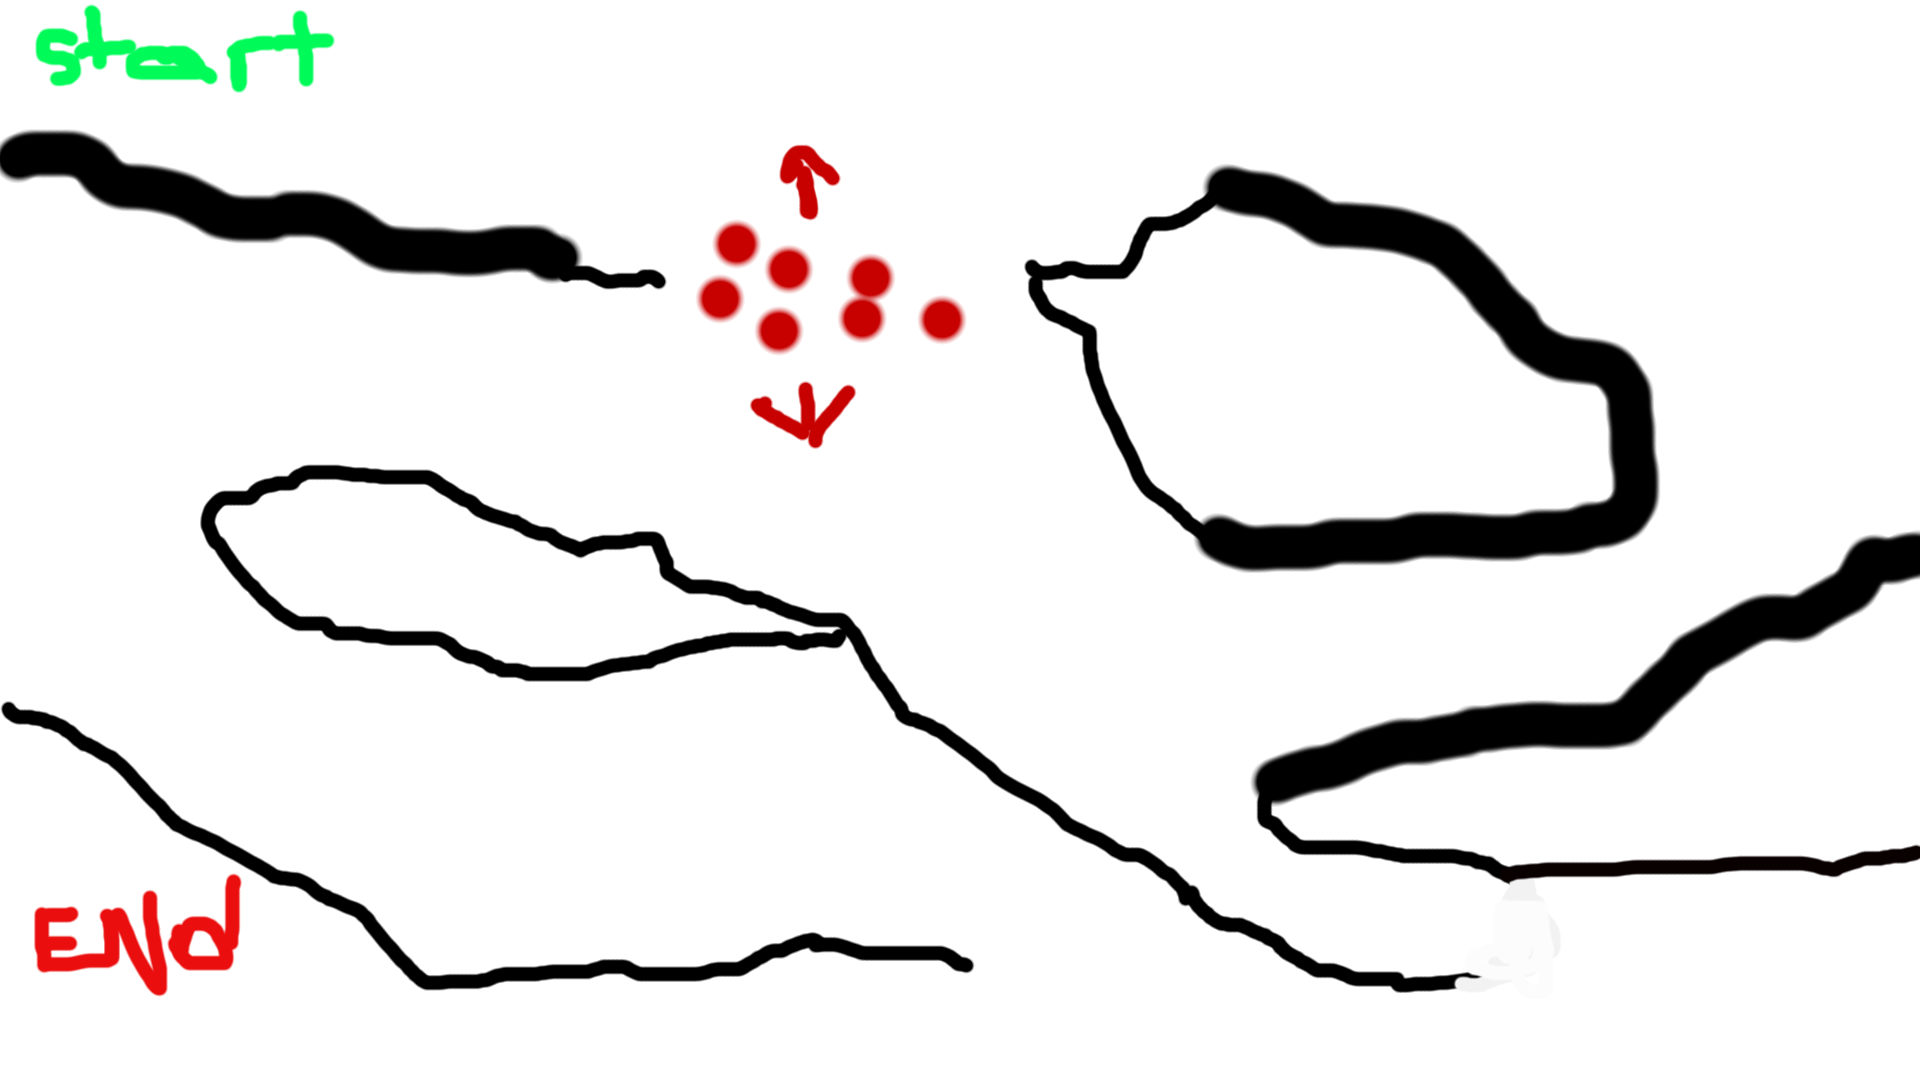
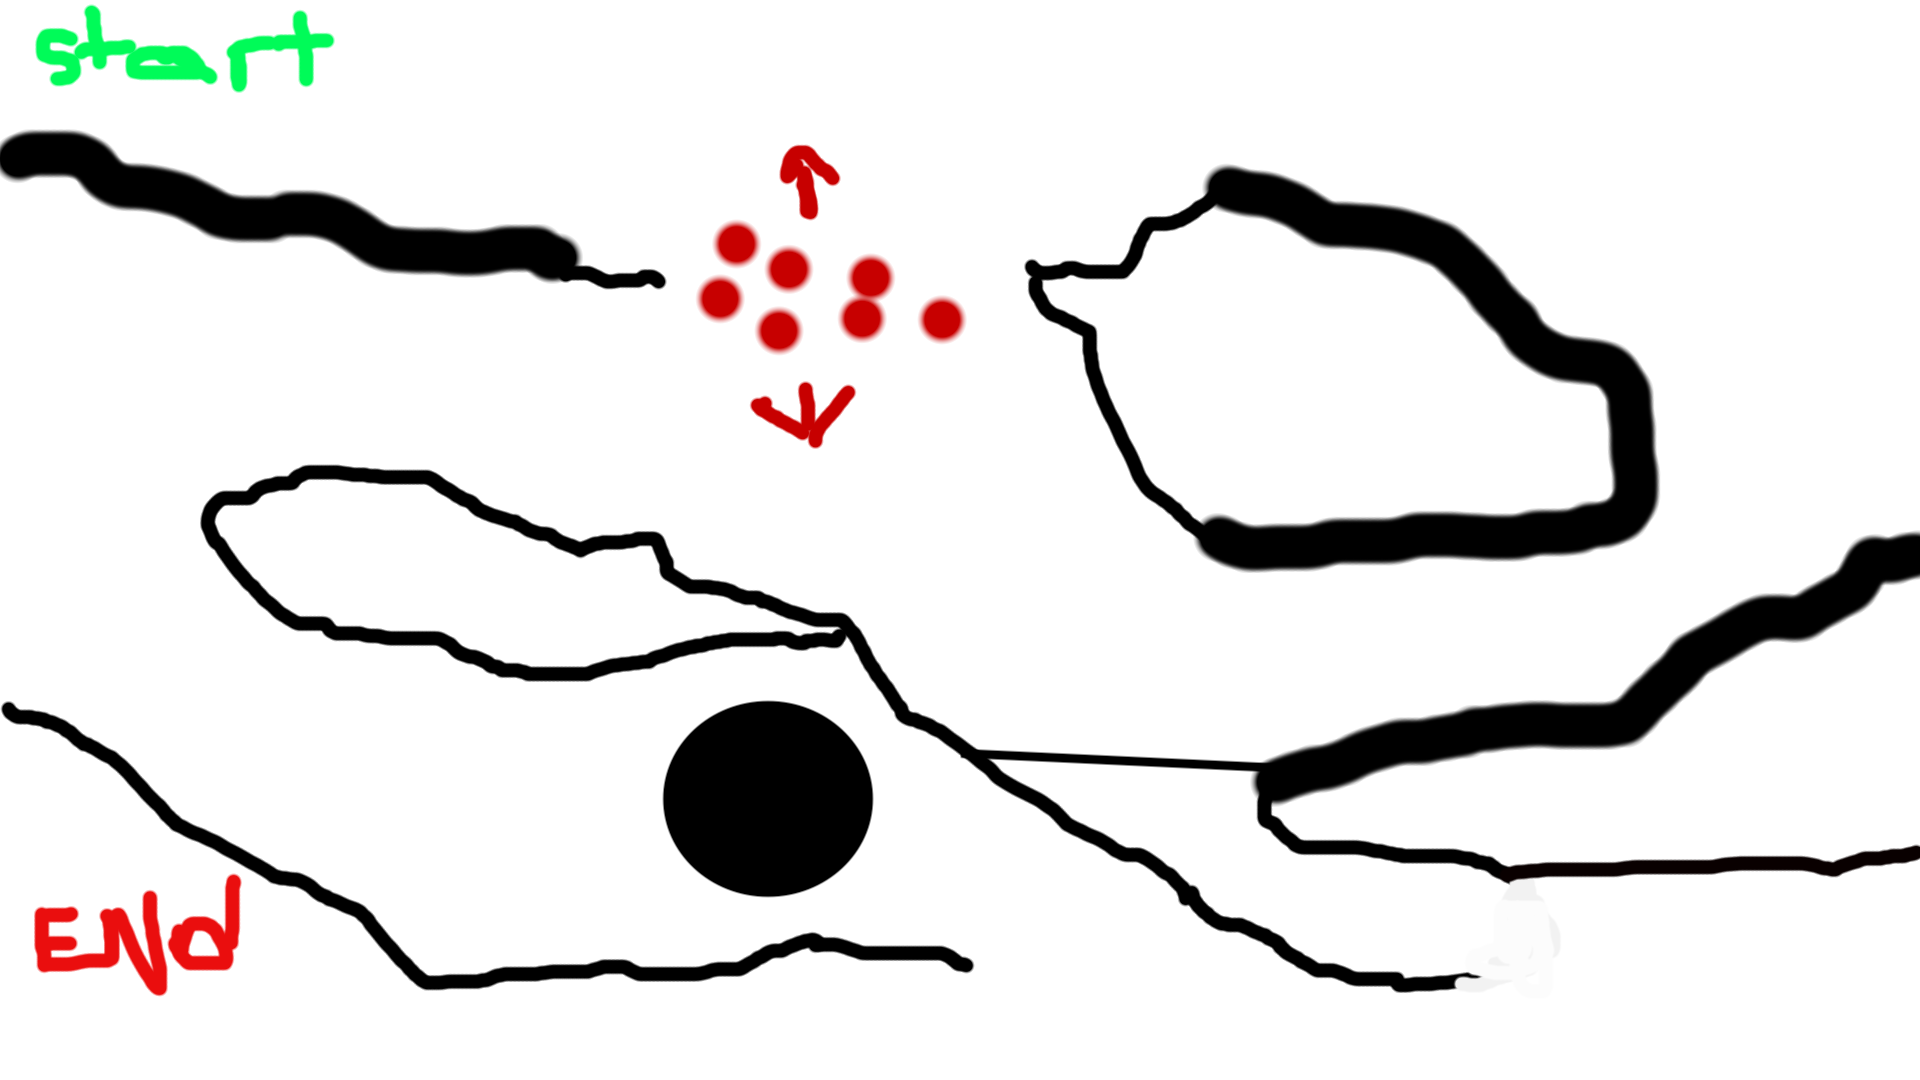
added clocks

Changed region(s): [[0.3438, 0.6417, 0.4688, 0.8556], [0.5, 0.6722, 0.6562, 0.7333]]

diff --git a/index.html b/index.html
@@ -402,24 +402,28 @@ var isMouseDown = false;
               this.sprite.draw(canvas, this.x, this.y);
           }
         }
-        function Enemy(I) {
+        function Enemy(I, locX, locY, spinning, type, rotation, upDown, up) {
             I = I || {};
             I.active = true;
             I.age = Math.floor(Math.random() * 128);
             I.rotateRight = true;
             I.sprite = Sprite("alarm_clock");
             // I.color = "#A2B";
-            I.spinning = false;
-            I.x = 100;
-            I.y = 100;
+            I.spinning = spinning;
+            I.x = locX;
+            I.y = locY;
             I.xVelocity = 0;
             I.yVelocity = 0;
             I.angle = 0;
             I.width = 57;
             I.height = 59;
-            I.type = 1;
-            I.rotation = .3;
-
+            I.type = type;
+            I.rotation = rotation;
+            I.rotateRight = true;
+            I.rotateLeft = false;
+            I.upDown = upDown;
+            I.down = true;
+            I.up = false;
             I.inBounds = function () {
                 return I.x >= 0 && I.x <= CANVAS_WIDTH &&
                 I.y >= 0 && I.y <= CANVAS_HEIGHT;
@@ -431,6 +435,19 @@ var isMouseDown = false;
                 I.sprite.draw(canvas, I.x, I.y);
             };
             I.rotate = function (){
+              /*  if(I.angle < 360 && I.rotateRight === true){
+                    I.angle += I.rotation;
+                }
+                else if(I.angle > 360 && I.rotateRight === false){
+                    I.angle -= I.rotation;
+                }
+
+                if(I.angle === 360 && I.rotateRight === true){
+                    I.rotateRight = false;
+                }
+                else if(I.angle === 0 && I.rotateRight === false){
+                    I.rotateRight = true;
+                }*/
                 I.angle += I.rotation;
                 //var dx = 0 - I.x;
                 //var dy = 1080 - I.y;
@@ -464,6 +481,42 @@ var isMouseDown = false;
             };
 
             I.update = function () {
+                if(upDown === true){
+                //    if(up === false){
+                    if(I.y < locY + 350 && I.down === true){
+                    
+                            I.y += 2;
+                        
+                    }
+                    if(I.y > locY + 350){
+                        I.down = false;
+                    }
+                    if(I.y > locY && I.down === false){
+                        
+                            I.y -= 2;
+                    
+                    }
+                    if(I.y < locY && I.down === false){
+                        I.down =true;
+                    }
+                /* }else{
+                    if(I.y < locY - 100 && I.down === true){
+                        
+                            I.y -= 2;
+                    }
+                    if(I.y > locY - 100){
+                        I.down = false;
+                    }
+                    if(I.y > locY && I.down === false){
+                            I.y += 2;
+                        
+                    }
+                    if(I.y < locY && I.down === false){
+                        I.down =true;
+                    }
+                    }
+                }
+*/
                 //I.x += I.x;
                 //I.y += I.y;
 
@@ -473,7 +526,7 @@ var isMouseDown = false;
 
                 //this.y = this.y.clamp(0, CANVAS_HEIGHT - this.height);
             };
-
+        };
             return I;
         };
         //create asteroids
@@ -844,6 +897,90 @@ var isMouseDown = false;
       powerups.push(Powerup(0,1650,750));
       powerups.push(Powerup(0,1750,850));
       powerups.push(Powerup(0,1850,950));
+
+      enemies.push(Enemy(0,0,230, true, .1,1));
+      enemies.push(Enemy(0,58,240, true, .1,1));
+      enemies.push(Enemy(0,120,250, true, .1,1));
+      enemies.push(Enemy(0,160,260, true, .1,1));
+      enemies.push(Enemy(0,220,270, true, .1,1));
+      enemies.push(Enemy(0,280,275, true, .1,1));
+      enemies.push(Enemy(0,340,280, true, .1,1));
+      enemies.push(Enemy(0,400,290, true, .1,1));
+      enemies.push(Enemy(0,460,300, true, .1,1));
+      enemies.push(Enemy(0,520,300, true, .1,1));
+      enemies.push(Enemy(0,580,300, true, .1,1));
+      enemies.push(Enemy(0,640,305, true, .1,1));
+      enemies.push(Enemy(0,700,50, true, .3,1, true));
+      enemies.push(Enemy(0,760,90, true, .5,2.5, true));
+      enemies.push(Enemy(0,820,150, true, .5,2, true));
+      enemies.push(Enemy(0,880,50, true, .5,2,true));
+      enemies.push(Enemy(0,940,75, true, .5,3, true));
+      enemies.push(Enemy(0,1000,50, true, .5,2,true));
+      enemies.push(Enemy(0,1060,300, true, .1,1));
+      enemies.push(Enemy(0,1120,290, true, .1,1));
+      enemies.push(Enemy(0,1180,280, true, .1,1));
+      enemies.push(Enemy(0,1240,270, true, .1,1));
+      enemies.push(Enemy(0,1280,260, true, .1,1));
+      enemies.push(Enemy(0,1340,200, true, .1,1));
+      enemies.push(Enemy(0,1400,180, true, .1,1));
+      enemies.push(Enemy(0,1460,200, true, .1,1));
+      enemies.push(Enemy(0,1500,230, true, .1,1));
+      enemies.push(Enemy(0,1560,250, true, .1,1));
+      enemies.push(Enemy(0,1620,280, true, .1,1));
+      enemies.push(Enemy(0,1635,340, true, .1,1));
+      enemies.push(Enemy(0,1645,400, true, .1,1));
+      enemies.push(Enemy(0,1640,440, true, .1,1));
+      enemies.push(Enemy(0,1625,500, true, .1,1));
+      enemies.push(Enemy(0,1610,550, true, .1,1));
+      enemies.push(Enemy(0,1560,850, true, .1,1));
+      enemies.push(Enemy(0,1500,800, true, .1,1));
+      enemies.push(Enemy(0,1600,900, true, .1,1));
+      enemies.push(Enemy(0,1660,950, true, .1,1));
+      enemies.push(Enemy(0,1720,990, true, .1,1));
+      enemies.push(Enemy(0,1460,785, true, .1,1));
+      enemies.push(Enemy(0,1400,760, true, .1,1));
+      enemies.push(Enemy(0,1340,720, true, .1,1));
+      enemies.push(Enemy(0,1280,700, true, .1,1));
+      enemies.push(Enemy(0,1240,665, true, .1,1));
+      enemies.push(Enemy(0,1180,670, true, .1,1));
+      enemies.push(Enemy(0,1120,675, true, .1,1));
+      
+      enemies.push(Enemy(0,1060,670, true, .1,1));
+      enemies.push(Enemy(0,1000,675, true, .1,1));
+      enemies.push(Enemy(0,940,350, true, .1,1,true));
+      enemies.push(Enemy(0,880,355, true, .1,1,true));
+      enemies.push(Enemy(0,820,355, true, .1,1,true ));
+      enemies.push(Enemy(0,640,675, true, .1,1));
+
+      enemies.push(Enemy(0,940,675, true, .1,1));
+      enemies.push(Enemy(0,880,675, true, .1,1));
+      enemies.push(Enemy(0,820,675, true, .1,1));
+      enemies.push(Enemy(0,760,675, true, .1,1));
+      enemies.push(Enemy(0,700,660, true, .1,1));
+      enemies.push(Enemy(0,640,665, true, .1,1));
+      enemies.push(Enemy(0,580,670, true, .1,1));
+      enemies.push(Enemy(0,520,650, true, .1,1));
+      enemies.push(Enemy(0,460,640, true, .1,1));
+      enemies.push(Enemy(0,400,630, true, .1,1));
+      enemies.push(Enemy(0,340,620, true, .1,1));
+      enemies.push(Enemy(0,280,615, true, .1,1));
+      enemies.push(Enemy(0,0,700, true, .1,1));
+      enemies.push(Enemy(0,60,740, true, .1,1));
+      enemies.push(Enemy(0,120,760, true, .1,1));
+      enemies.push(Enemy(0,180,780, true, .1,1));
+      enemies.push(Enemy(0,240,790, true, .1,1));
+      enemies.push(Enemy(0,300,800, true, .1,1));
+      enemies.push(Enemy(0,360,825, true, .1,1));
+      enemies.push(Enemy(0,420,835, true, .1,1));
+      enemies.push(Enemy(0,480,845, true, .1,1));
+      enemies.push(Enemy(0,540,850, true, .1,1));
+      enemies.push(Enemy(0,600,860, true, .1,1));
+      enemies.push(Enemy(0,660,865, true, .1,1));
+      enemies.push(Enemy(0,720,870, true, .1,1));
+      enemies.push(Enemy(0,780,875, true, .1,1));
+      enemies.push(Enemy(0,840,885, true, .1,1));
+      enemies.push(Enemy(0,900,890, true, .1,1));
+      enemies.push(Enemy(0,960,900, true, .1,1));
 
     //   setInterval(function(){
     // // //   console.log("updating the canvas");

diff --git a/update.js b/update.js
@@ -112,6 +112,7 @@ function update() { //Updates location and reaction of objects to the canvas
 
         if (keydown.d && rightTurnOff == false) {
             player.angle += player.keyboardTurnSpeed;
+            
           //  console.log("right angle :" + player.angle);
         }
 
@@ -121,6 +122,14 @@ function update() { //Updates location and reaction of objects to the canvas
             }*/// Calculate distance to center
             player.speed = player.keyboardThrust;
 
+        }
+        if(leftTurnOff === true){
+            player.angle += .3;
+            player.speed += 1;
+        }
+        if(rightTurnOff === true){
+            player.angle -= .3;
+            player.speed += 1;
         }
 
         if (keydown.s) {
@@ -196,7 +205,7 @@ function update() { //Updates location and reaction of objects to the canvas
 
         player.y = player.y.clamp(0, CANVAS_HEIGHT - player.height); //prevents character from going past canvas
 
-
+/*
         if(enemies.length < 40){
            // console.log("Length: " + enemies.length)
             var enemy = new Enemy();
@@ -234,7 +243,7 @@ function update() { //Updates location and reaction of objects to the canvas
             //    enemy.rotate();
            // }
 
-        }
+        }*/
             enemies.forEach(function(enemy){
                 enemy.update();
             });
